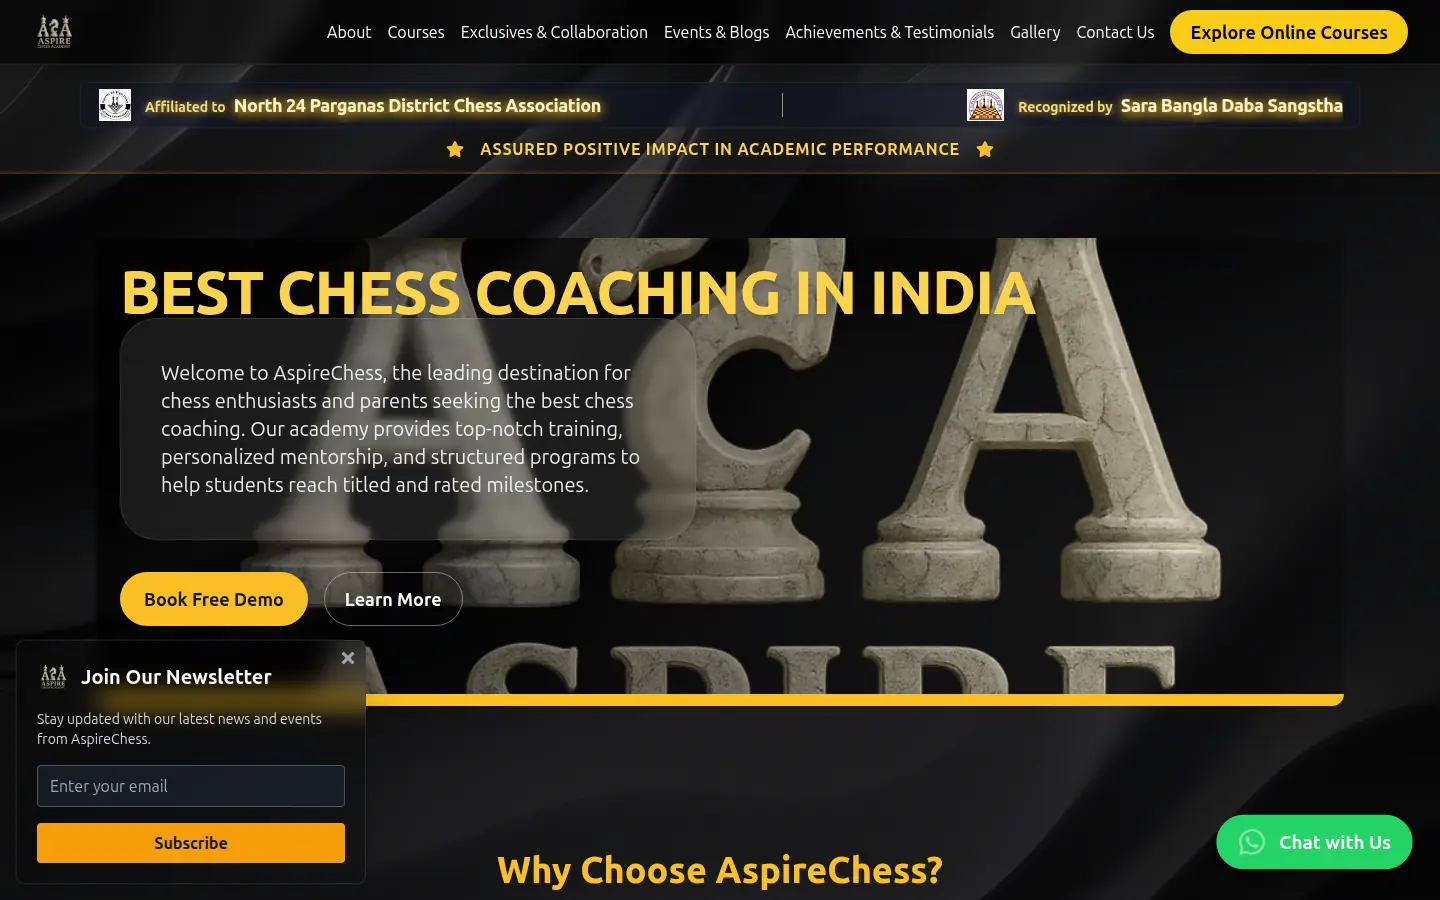
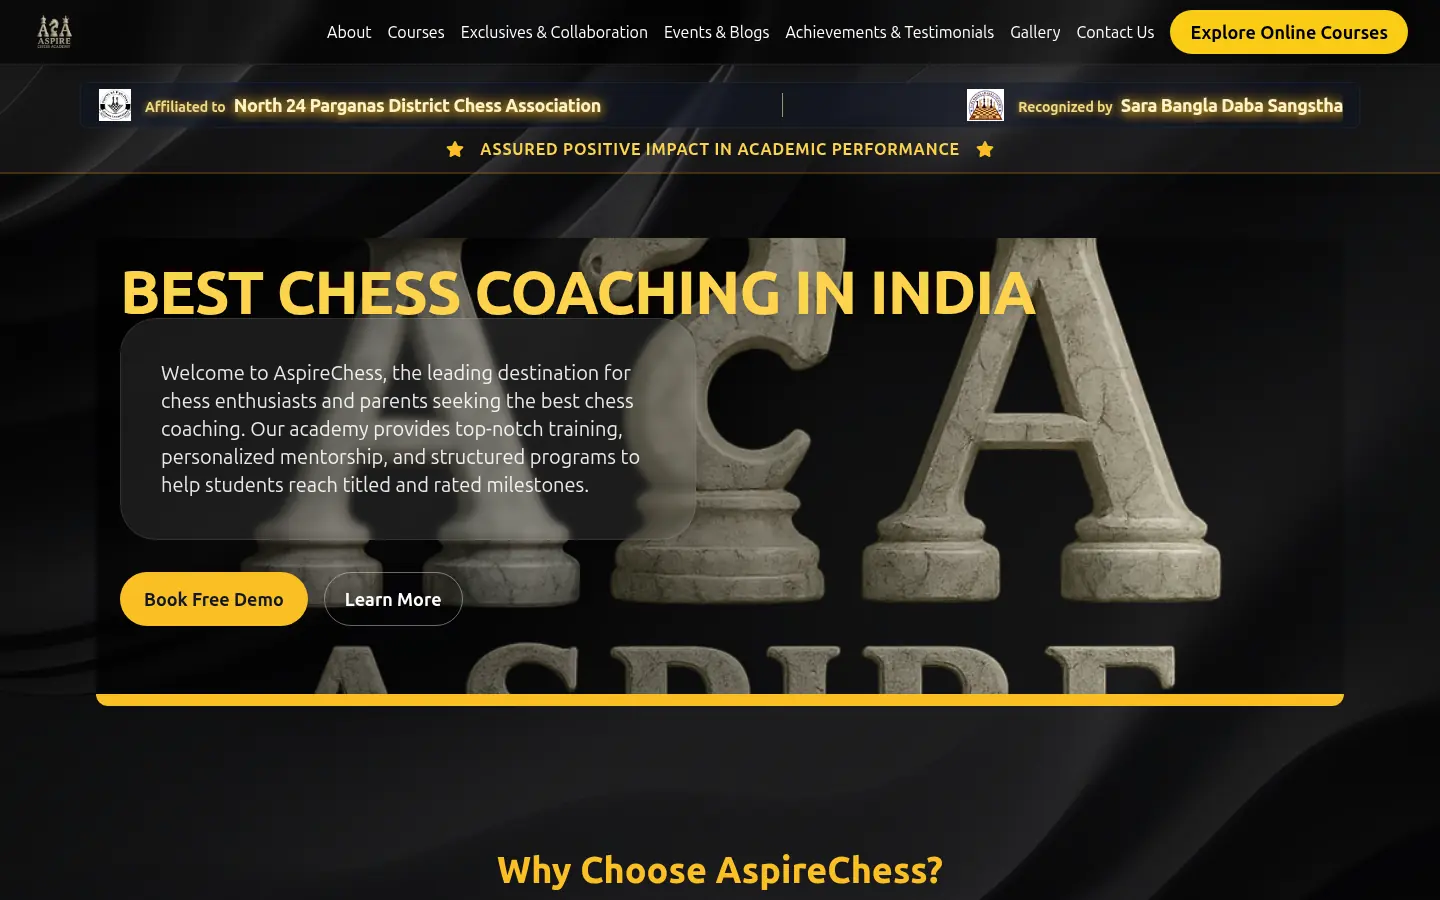
fix: act on the finish review
Evidence and truth:
- the stats strip is gone: '31 projects shipped' was false (several are
  still in development); the two verified figures now sit where they
  belong, as captions on Today Egg Rates and the Odoo hackathon project
- internal day-job numbers are out of the principles and career copy
  (latency, downtime, team size), and the timeline no longer names a
  freelance platform
- TicketVault gets a real screenshot of its live deployment in place of
  a gradient wordmark; Egg Rates and ChessCodex are recaptured with their
  popups and chat widgets dismissed
- the Tacho caption no longer pairs '124.7cc' with footage of a
  different bike

Craft:
- Familjen Grotesk's lowercase t broke apart at text sizes ('hackat
  hon'); it is now display-only and Schibsted Grotesk sets body text
- the archive becomes dense two-column index rows with no ordinal
  numbers, and tutorial-level builds are unlisted (their pages remain);
  personas lose their numbers too
- reel covers load eagerly at low priority (lazy never fired for cards
  translated off-screen), cards top-align, and the next card peeks on
  mobile
- 'How I build' now precedes its first principle; the email address is
  the strongest item in the close, links stay on one line on mobile

PRODUCT.md records the decisions behind this: past freelance roles are
public résumé facts, the supplied films are approved world the owner
will replace, and the verified-figure list.

Changed region(s): [[0.0, 0.8711, 0.25, 0.9644], [0.0312, 0.7156, 0.25, 0.84], [0.8438, 0.9022, 1.0, 0.9644]]

diff --git a/web/components/hire/Reel.module.css b/web/components/hire/Reel.module.css
@@ -5,21 +5,22 @@
 .title { margin: 0; font-family: var(--u-display); font-weight: 600; letter-spacing: -0.04em; line-height: .95;
   font-size: clamp(40px, 6vw, 96px); }
 .lede { margin: 0; font-size: 18px; color: var(--u-dim); max-width: 46ch; }
-.track { display: flex; gap: clamp(16px, 2vw, 28px); padding: 8px var(--pad) 48px; overflow-x: auto;
+.track { display: flex; align-items: start; gap: clamp(16px, 2vw, 28px); padding: 8px var(--pad) 48px; overflow-x: auto;
   scroll-snap-type: x mandatory; scrollbar-width: none; }
 .track::-webkit-scrollbar { display: none; }
-.card { flex: 0 0 min(78vw, 820px); scroll-snap-align: start; display: grid; gap: 18px; color: inherit; text-decoration: none; }
+.card { flex: 0 0 min(72vw, 820px); scroll-snap-align: start; display: grid; gap: 18px; color: inherit; text-decoration: none; }
 .frame { position: relative; aspect-ratio: 16 / 10; overflow: hidden; border-radius: var(--u-radius); background: var(--u-bg2); }
 .frame img { object-fit: cover; transition: transform 1s cubic-bezier(.16,1,.3,1), filter .6s; filter: saturate(.9); }
 .card:hover .frame img, .card:focus-visible .frame img { transform: scale(1.035); filter: saturate(1.05); }
 .type { display: grid; place-items: end start; overflow: hidden; padding: clamp(24px, 3vw, 44px); height: 100%;
   background: radial-gradient(120% 90% at 85% 10%, color-mix(in srgb, var(--u-accent) 22%, transparent), transparent 60%), var(--u-bg2); }
-.typeWord { font-family: var(--u-display); font-weight: 600; letter-spacing: -0.05em; line-height: .85; color: var(--u-fg);
+.typeWord { font-family: var(--u-display); font-weight: 600; letter-spacing: -0.04em; line-height: .85; color: var(--u-fg);
   font-size: clamp(44px, 6.4vw, 112px); max-width: 100%; overflow-wrap: anywhere; }
 .meta { display: grid; grid-template-columns: 1fr auto; gap: 6px 24px; align-items: baseline; }
 .name { margin: 0; font-size: clamp(22px, 2vw, 30px); font-weight: 600; letter-spacing: -0.02em; }
 .year { font-size: 14px; color: var(--u-dim); font-variant-numeric: tabular-nums; }
 .what { margin: 0; grid-column: 1 / -1; color: var(--u-dim); font-size: 16px; max-width: 52ch; }
+.fig { grid-column: 1 / -1; font-size: 14px; color: var(--u-accent); font-variant-numeric: tabular-nums; }
 .nda { grid-column: 1 / -1; font-size: 13px; color: var(--u-accent2); }
 .card:focus-visible { outline: 2px solid var(--u-accent); outline-offset: 6px; }
 
@@ -29,7 +30,7 @@
     .stage { position: sticky; top: 0; height: 100svh; display: grid; grid-template-rows: auto 1fr; overflow: hidden; }
     .head { padding-top: clamp(48px, 9vh, 96px); }
     /* max-content so -100% in the keyframe means the track's full length, not the viewport */
-    .track { width: max-content; overflow: visible; scroll-snap-type: none; align-items: center;
+    .track { width: max-content; overflow: visible; scroll-snap-type: none; align-items: start;
       animation: pan linear both; animation-timeline: --reel; animation-range: contain 0% contain 100%; }
     .card { flex-basis: min(58vw, 760px); }
   }

diff --git a/web/lib/universe/blueprint/renderers.module.css b/web/lib/universe/blueprint/renderers.module.css
@@ -1,21 +1,18 @@
-/* A mosaic, not a spec sheet: cells separated by a 2px seam of ground, no hairline under every row. */
-.list { display: grid; grid-template-columns: repeat(auto-fill, minmax(min(100%, 320px), 1fr)); gap: 2px;
-  background: var(--u-line); border: 2px solid var(--u-line); border-radius: var(--u-radius); overflow: hidden; }
-.row { position: relative; display: grid; grid-template-rows: auto 1fr auto; gap: 14px; padding: 24px 24px 22px;
-  background: var(--u-bg); min-height: 200px; transition: background-color .35s; }
-.row:hover, .row:has(.link:focus-visible) { background: var(--u-bg2); }
-.idx { font-family: var(--u-mono); font-size: 11px; color: var(--u-dim); }
-.title { font-family: var(--u-display); font-weight: var(--u-display-weight); font-size: 22px; letter-spacing: -0.025em;
-  line-height: 1.15; margin: 0 0 8px; transition: color .35s; }
+/* Dense index rows: what it is, one line, status. No ordinal numbers; the order carries no information. */
+.list { display: grid; grid-template-columns: repeat(2, minmax(0, 1fr)); column-gap: clamp(32px, 4vw, 64px); }
+.row { position: relative; display: grid; grid-template-columns: minmax(0, 1fr) auto; gap: 4px 24px; align-items: baseline;
+  padding: 18px 0; border-bottom: 1px solid var(--u-line); }
+.row:has(> .idx) { grid-template-columns: 64px minmax(0, 1fr) auto; }
+.idx { font-family: var(--u-mono); font-size: 12px; color: var(--u-dim); }
+.title { font-family: var(--u-display); font-weight: var(--u-display-weight); font-size: 20px; letter-spacing: -0.02em; line-height: 1.2; margin: 0 0 4px; transition: color .3s; }
 .row:hover .title { color: var(--u-accent); }
 .sub { font-size: 15px; line-height: 1.5; color: var(--u-dim); margin: 0; }
 .verse { white-space: pre-line; color: var(--u-fg); }
 .note { display: none; }
-.metric { font-size: 13px; color: var(--u-dim); font-variant-numeric: tabular-nums; align-self: end; }
-/* whole cell is the hit area; the title stays the single link */
+.metric { font-size: 13px; color: var(--u-dim); white-space: nowrap; font-variant-numeric: tabular-nums; }
 .link { color: inherit; text-decoration: none; }
 .link::before { content: ''; position: absolute; inset: 0; }
 .link:focus-visible { outline: none; }
-.row:has(.link:focus-visible) { outline: 2px solid var(--u-accent); outline-offset: -2px; }
-@media (max-width: 640px) { .row { min-height: 0; padding: 18px 18px 16px; gap: 8px; } .title { font-size: 19px; margin-bottom: 4px; } .sub { font-size: 14px; } }
-@media (prefers-reduced-motion: reduce) { .row, .title { transition: none; } }
+.row:has(.link:focus-visible) { outline: 2px solid var(--u-accent); outline-offset: 4px; }
+@media (max-width: 860px) { .list { grid-template-columns: 1fr; } }
+@media (prefers-reduced-motion: reduce) { .title { transition: none; } }

diff --git a/web/lib/universe/nightride/renderers.tsx b/web/lib/universe/nightride/renderers.tsx
@@ -5,10 +5,10 @@ import s from './renderers.module.css'
 const pad = (i: number) => String(i + 1).padStart(2, '0')
 
 /** One lap on the board. Uppercase comes from CSS: the content strings stay identical to every other universe. */
-function Row({ idx, title, sub, metric, verse, href }: { idx: string; title: string; sub: string; metric?: string; verse?: boolean; href?: string }) {
+function Row({ idx, title, sub, metric, verse, href }: { idx?: string; title: string; sub: string; metric?: string; verse?: boolean; href?: string }) {
   return (
     <article className={s.row}>
-      <span className={s.idx}>{idx}</span>
+      {idx && <span className={s.idx}>{idx}</span>}
       <div>
         <h3 className={s.title}>{href ? <Link href={href} className={s.link}>{title}</Link> : title}</h3>
         <p className={verse ? s.verse : s.sub}>{sub}</p>
@@ -21,8 +21,8 @@ function Row({ idx, title, sub, metric, verse, href }: { idx: string; title: str
 export const renderers: Universe['renderers'] = {
   project: ({ records }) => (
     <div className={s.board}>
-      {records.map((p, i) => (
-        <Row key={p.slug} href={`/work/${p.slug}`} idx={pad(i)} title={p.title} sub={p.tagline} metric={p.metrics[0]?.value ?? p.period} />
+      {records.map(p => (
+        <Row key={p.slug} href={`/work/${p.slug}`} title={p.title} sub={p.tagline} metric={p.metrics[0]?.value ?? p.period} />
       ))}
     </div>
   ),
@@ -38,7 +38,7 @@ export const renderers: Universe['renderers'] = {
   ),
   persona: ({ records }) => (
     <div className={s.board}>
-      {records.map((p, i) => <Row key={p.slug} idx={pad(i)} title={p.title} sub={p.description} />)}
+      {records.map(p => <Row key={p.slug} title={p.title} sub={p.description} />)}
     </div>
   ),
 }

diff --git a/web/components/hire/Principles.tsx b/web/components/hire/Principles.tsx
@@ -3,20 +3,20 @@ import s from './Principles.module.css'
 
 // Drawn from the public, NDA-safe résumé. No internal metrics, configs, vendors or product names.
 const PRINCIPLES = [
-  { title: 'Scale before launch day', body: 'Moved a single-box backend to a horizontally scaled, highly available setup with zero downtime, ahead of the traffic.' },
+  { title: 'Scale before launch day', body: 'Moved a single-box backend to a horizontally scaled, highly available setup, ahead of the traffic and without taking it offline.' },
   { title: 'Fail closed where money moves', body: 'A credit ledger that stays correct under concurrent spend, replayed webhooks and payment providers failing halfway.' },
   { title: 'Shed load. Never hang.', body: 'Under a burst, the system answers fast with "try again shortly" instead of timing out and taking everything down with it.' },
-  { title: 'Measure, then fix', body: 'Load-tested to find where it breaks, traced it to the real bottleneck, and took worst-case login from tens of seconds to under one.' },
+  { title: 'Measure, then fix', body: 'Load-tested to find where it breaks, traced it to the real bottleneck, and fixed that instead of adding servers.' },
 ]
 
 export function Principles() {
   return (
     <section className={s.wrap} aria-labelledby="principles-title">
       <div className={s.pin}>
+        <h2 id="principles-title" className={s.title}>How I build</h2>
         <div className={s.photo}>
           <Image src="/media/portrait-desk.webp" alt="Owais at his desk" fill sizes="(max-width: 860px) 100vw, 40vw" />
         </div>
-        <h2 id="principles-title" className={s.title}>How I build</h2>
       </div>
       <ol className={s.list}>
         {PRINCIPLES.map(p => (

diff --git a/web/lib/universe/blueprint/renderers.tsx b/web/lib/universe/blueprint/renderers.tsx
@@ -7,11 +7,11 @@ const pad = (i: number) => String(i + 1).padStart(2, '0')
 
 /** One spec-sheet row. Every content kind maps onto these four cells. */
 function Row({ idx, title, sub, note, metric, verse, href }: {
-  idx: string; title: string; sub: string; note?: ReactNode; metric?: string; verse?: boolean; href?: string
+  idx?: string; title: string; sub: string; note?: ReactNode; metric?: string; verse?: boolean; href?: string
 }) {
   return (
     <article className={s.row}>
-      <span className={s.idx}>{idx}</span>
+      {idx && <span className={s.idx}>{idx}</span>}
       <div>
         <h3 className={s.title}>{href ? <Link href={href} className={s.link}>{title}</Link> : title}</h3>
         <p className={verse ? `${s.sub} ${s.verse}` : s.sub}>{sub}</p>
@@ -25,8 +25,8 @@ function Row({ idx, title, sub, note, metric, verse, href }: {
 export const renderers: Universe['renderers'] = {
   project: ({ records }) => (
     <div className={s.list}>
-      {records.map((p, i) => (
-        <Row key={p.slug} href={`/work/${p.slug}`} idx={pad(i)} title={p.title} sub={p.tagline}
+      {records.map(p => (
+        <Row key={p.slug} href={`/work/${p.slug}`} title={p.title} sub={p.tagline}
           note={p.decisions[0] ?? p.stack.join(' · ')} metric={p.metrics[0]?.value ?? p.period} />
       ))}
     </div>
@@ -43,7 +43,7 @@ export const renderers: Universe['renderers'] = {
   ),
   persona: ({ records }) => (
     <div className={s.list}>
-      {records.map((p, i) => <Row key={p.slug} idx={pad(i)} title={p.title} sub={p.description} />)}
+      {records.map(p => <Row key={p.slug} title={p.title} sub={p.description} />)}
     </div>
   ),
 }

diff --git a/web/app/fonts.ts b/web/app/fonts.ts
@@ -1,8 +1,10 @@
-import { Barlow, Big_Shoulders, Familjen_Grotesk, Martian_Mono } from 'next/font/google'
+import { Barlow, Big_Shoulders, Familjen_Grotesk, Martian_Mono, Schibsted_Grotesk } from 'next/font/google'
 
 // Self-hosted at build time by next/font: no runtime font CDN, no layout shift.
 // Each universe adds its faces here and references them only through its own tokens.
 export const blueprintSans = Familjen_Grotesk({ subsets: ['latin'], variable: '--font-blueprint-sans', display: 'swap' })
+// Familjen's lowercase t breaks apart at text sizes ("hackat hon"), so it is display-only; Schibsted carries body text.
+export const blueprintText = Schibsted_Grotesk({ subsets: ['latin'], variable: '--font-blueprint-text', display: 'swap' })
 export const blueprintMono = Martian_Mono({ subsets: ['latin'], variable: '--font-blueprint-mono', display: 'swap', preload: false }) // small labels only; not worth a preload
 
 // Nightride: heavy condensed display; accents use Barlow italic (same family as the body, never a borrowed serif).
@@ -11,6 +13,6 @@ export const nightrideDisplay = Big_Shoulders({ subsets: ['latin'], weight: '900
 export const nightrideBody = Barlow({ subsets: ['latin'], weight: ['400', '500'], style: ['normal', 'italic'], variable: '--font-nightride-body', display: 'swap', preload: false })
 
 export const fontVariables = [
-  blueprintSans.variable, blueprintMono.variable,
+  blueprintSans.variable, blueprintText.variable, blueprintMono.variable,
   nightrideDisplay.variable, nightrideBody.variable,
 ].join(' ')

diff --git a/web/components/hire/Body.tsx b/web/components/hire/Body.tsx
@@ -1,6 +1,5 @@
 import type { Project } from '@/lib/content/types'
 import { Stage } from '@/components/Stage'
-import { Proof } from './Proof'
 import { Reel } from './Reel'
 import { Principles } from './Principles'
 import { Career } from './Career'
@@ -11,13 +10,15 @@ import s from './Body.module.css'
 // The order a hiring manager should meet the work in. Everything else lands in the archive.
 const FEATURED = ['genai-media-platform', 'creator-marketplace', 'today-egg-rates', 'chesscodex', 'ticketvault', 'linearecta', 'cse-farewell-2025']
 
+// Kept as /work pages, left out of the archive: tutorial-level builds undercut a senior pitch.
+const UNLISTED = ['simple-responsive-navigation-bar', 'react-weather-app', 'vanillajs-weather-app', 'spotify-ui-clone', 'simon-says-game', 'university-python-scripts-sem-3', 'portfolio-website']
+
 /** Everything below a hero: shared by /hire (under the film) and / (under the cold open). */
 export function Body({ projects }: { projects: Project[] }) {
   const featured = FEATURED.map(slug => projects.find(p => p.slug === slug)).filter(p => p !== undefined)
-  const rest = projects.filter(p => !FEATURED.includes(p.slug))
+  const rest = projects.filter(p => !FEATURED.includes(p.slug) && !UNLISTED.includes(p.slug))
   return (
     <>
-      <Proof />
       <Reel projects={featured} />
       <Principles />
       <Career />

diff --git a/web/components/hire/Reel.tsx b/web/components/hire/Reel.tsx
@@ -17,13 +17,15 @@ export function Reel({ projects }: { projects: Project[] }) {
             <Link key={p.slug} href={`/work/${p.slug}`} className={s.card}>
               <div className={s.frame}>
                 {p.cover
-                  ? <Image src={p.cover} alt={`${p.title}${p.nda ? '' : ', live site'}`} fill sizes="(max-width: 768px) 78vw, 58vw" />
+                  ? <Image src={p.cover} alt={`${p.title}${p.nda ? '' : ', live site'}`} fill sizes="(max-width: 768px) 72vw, 58vw"
+                      loading="eager" fetchPriority="low" /> /* lazy never fires for cards translated off-screen inside the panned track */
                   : <div className={s.type} aria-hidden="true"><span className={s.typeWord}>{p.title}</span></div>}
               </div>
               <div className={s.meta}>
                 <h3 className={s.name}>{p.title}</h3>
                 <span className={s.year}>{p.period}</span>
                 <p className={s.what}>{p.tagline}</p>
+                {p.metrics[0] && <span className={s.fig}>{p.metrics[0].value} {p.metrics[0].label}</span>}
                 {p.nda && <span className={s.nda}>Day job. Under NDA, so shape rather than specifics.</span>}
               </div>
             </Link>

diff --git a/web/components/hire/Principles.module.css b/web/components/hire/Principles.module.css
@@ -1,10 +1,10 @@
 .wrap { display: grid; grid-template-columns: minmax(0, 5fr) minmax(0, 7fr); gap: clamp(32px, 6vw, 112px);
   padding: clamp(96px, 16vh, 180px) var(--pad); align-items: start; }
-.pin { position: sticky; top: 12vh; display: grid; gap: 22px; }
+.pin { position: sticky; top: 8vh; display: grid; gap: 22px; }
 .photo { position: relative; aspect-ratio: 4 / 5; overflow: hidden; border-radius: var(--u-radius); }
 .photo img { object-fit: cover; object-position: 50% 30%; }
 .title { margin: 0; font-family: var(--u-display); font-weight: 600; letter-spacing: -0.04em; line-height: .95; font-size: clamp(36px, 4.4vw, 68px); }
-.list { list-style: none; margin: 0; padding: 0; display: grid; gap: clamp(72px, 14vh, 160px); padding-top: 8vh; }
+.list { list-style: none; margin: 0; padding: 0; display: grid; gap: clamp(72px, 14vh, 160px); padding-top: clamp(72px, 10vh, 120px); }
 .item { display: grid; gap: 16px; max-width: 34ch; }
 .item h3 { margin: 0; font-family: var(--u-display); font-weight: 600; letter-spacing: -0.035em; line-height: 1; font-size: clamp(34px, 4vw, 60px); }
 .item p { margin: 0; font-size: 18px; line-height: 1.55; color: var(--u-dim); }

diff --git a/web/components/hire/Career.tsx b/web/components/hire/Career.tsx
@@ -2,7 +2,7 @@ import s from './Career.module.css'
 
 // Public, résumé-level facts. The day job is described, never named by product (employment NDA).
 const ROLES = [
-  { when: '2025 - now', what: 'Senior Developer', where: 'A startup', body: 'Backend and infrastructure for a generative-AI media platform and a creator marketplace. Leading a team of four.' },
+  { when: '2025 - now', what: 'Senior Developer', where: 'A startup', body: 'Backend and infrastructure for a generative-AI media platform and a creator marketplace, and the on-call that comes with it.' },
   { when: '2024 - 2025', what: 'Full-stack developer, contract', where: 'Kolkata Chess Academy', body: 'A learning platform with role-based dashboards and Stockfish-powered training, built from scratch.' },
   { when: '2023 - 2024', what: 'Full-stack engineer, freelance', where: 'Today Egg Rates', body: 'Built and scaled a price-data platform solo, with the caching and SEO that let it grow.' },
 ]

diff --git a/web/components/hire/Contact.module.css b/web/components/hire/Contact.module.css
@@ -2,7 +2,8 @@
 .big { justify-self: start; font-family: var(--u-display); font-weight: 600; letter-spacing: -0.055em; line-height: .88;
   font-size: clamp(64px, 13vw, 220px); color: var(--u-fg); text-decoration: none; transition: color .4s; }
 .big:hover, .big:focus-visible { color: var(--u-accent); }
-.row { display: flex; flex-wrap: wrap; gap: 12px 36px; align-items: baseline; font-size: 17px; }
-.addr { color: var(--u-dim); font-variant-numeric: tabular-nums; }
+.row { display: flex; flex-wrap: wrap; gap: 16px 32px; align-items: baseline; font-size: 17px; }
+.row a:not(.addr) { white-space: nowrap; }
+.row .addr { flex-basis: 100%; font-size: clamp(22px, 2.6vw, 34px); color: var(--u-fg); border-bottom-color: var(--u-accent); letter-spacing: -0.01em; }
 .row a { color: var(--u-fg); text-decoration: none; border-bottom: 1px solid var(--u-line); padding-bottom: 3px; }
 .row a:hover { border-bottom-color: var(--u-accent); }

diff --git a/web/lib/universe/blueprint/tokens.ts b/web/lib/universe/blueprint/tokens.ts
@@ -6,7 +6,7 @@ export const tokens: TokenSet = {
   accent: '#4FD1C5', accent2: '#FF8A57', line: '#22303A',
   radius: '2px', tracking: '-0.02em',
   display: 'var(--font-blueprint-sans), ui-sans-serif, system-ui, sans-serif',
-  body: 'var(--font-blueprint-sans), ui-sans-serif, system-ui, sans-serif',
+  body: 'var(--font-blueprint-text), ui-sans-serif, system-ui, sans-serif',
   mono: 'var(--font-blueprint-mono), ui-monospace, Menlo, monospace',
   displayWeight: '600', displayStretch: 'normal',
 }
